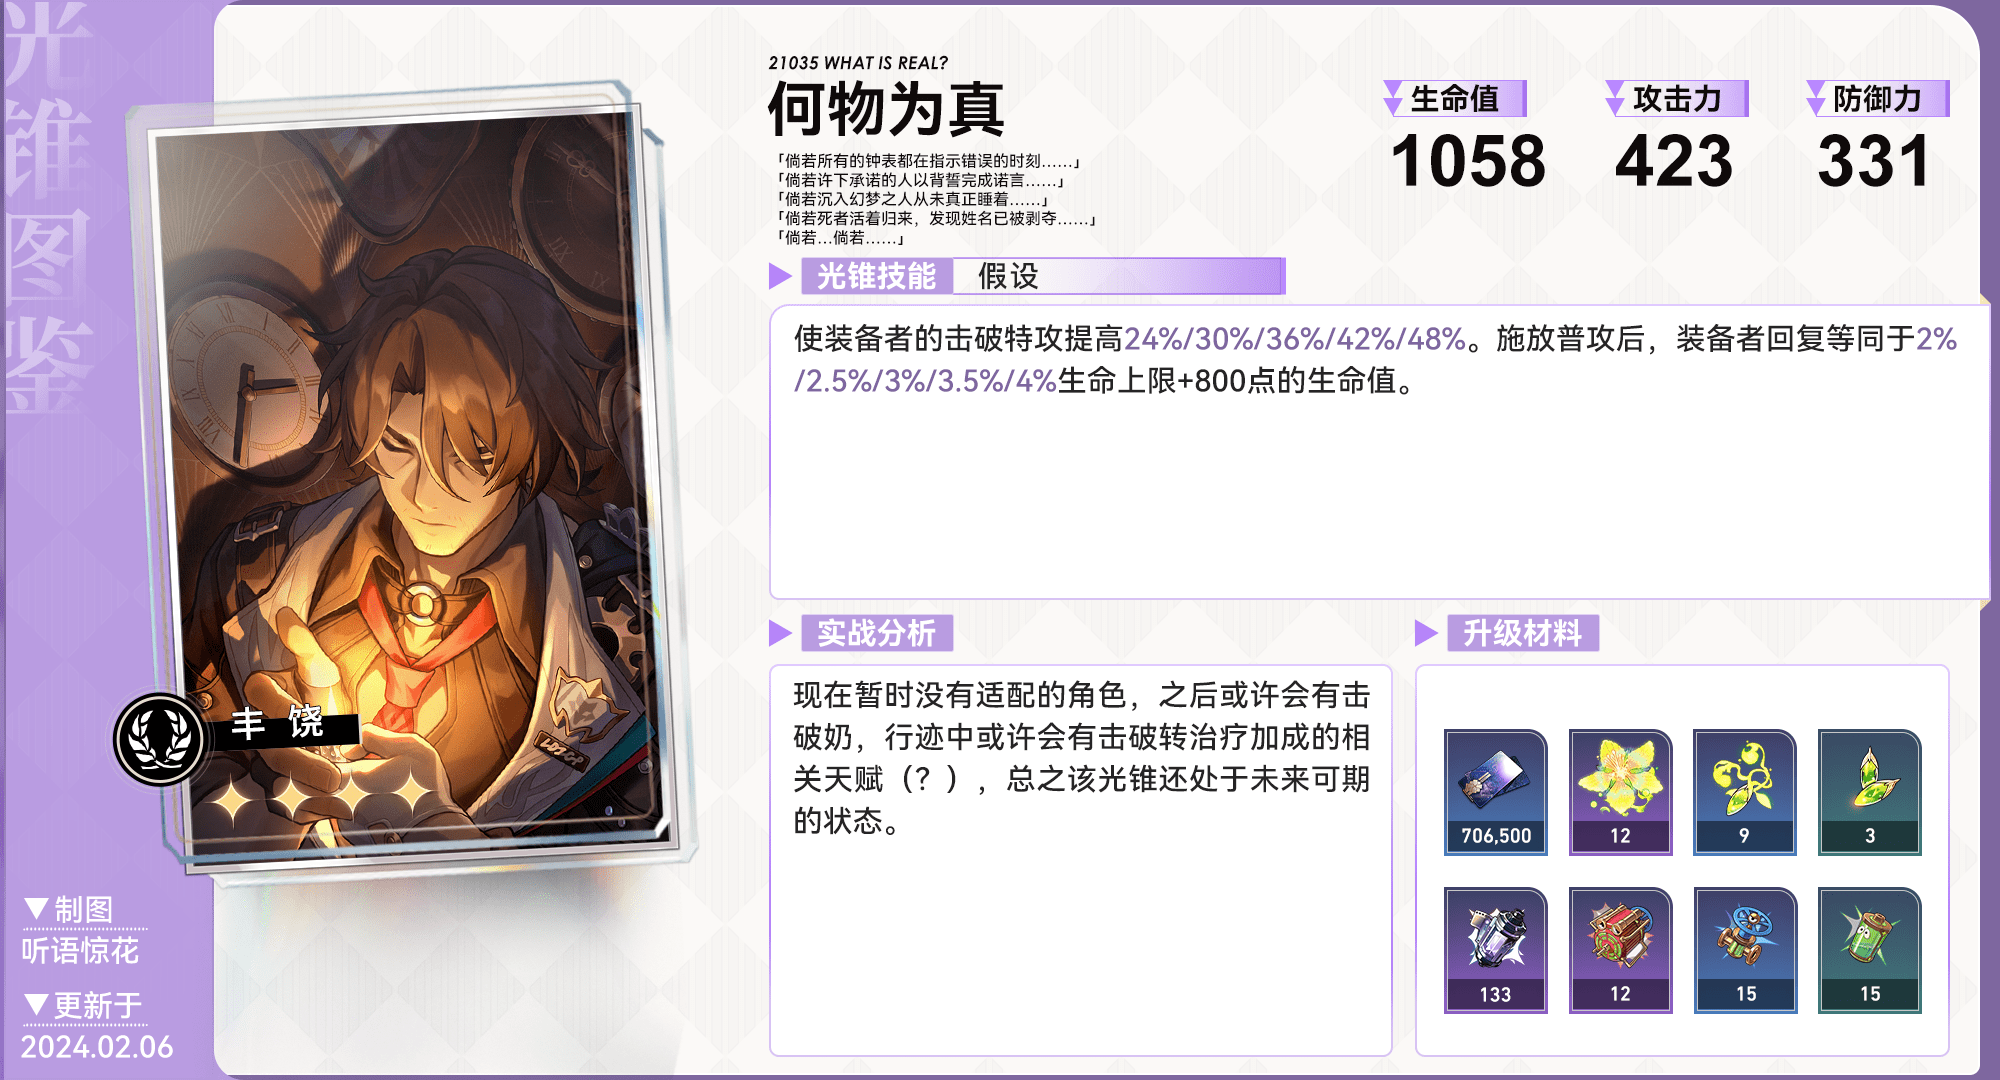
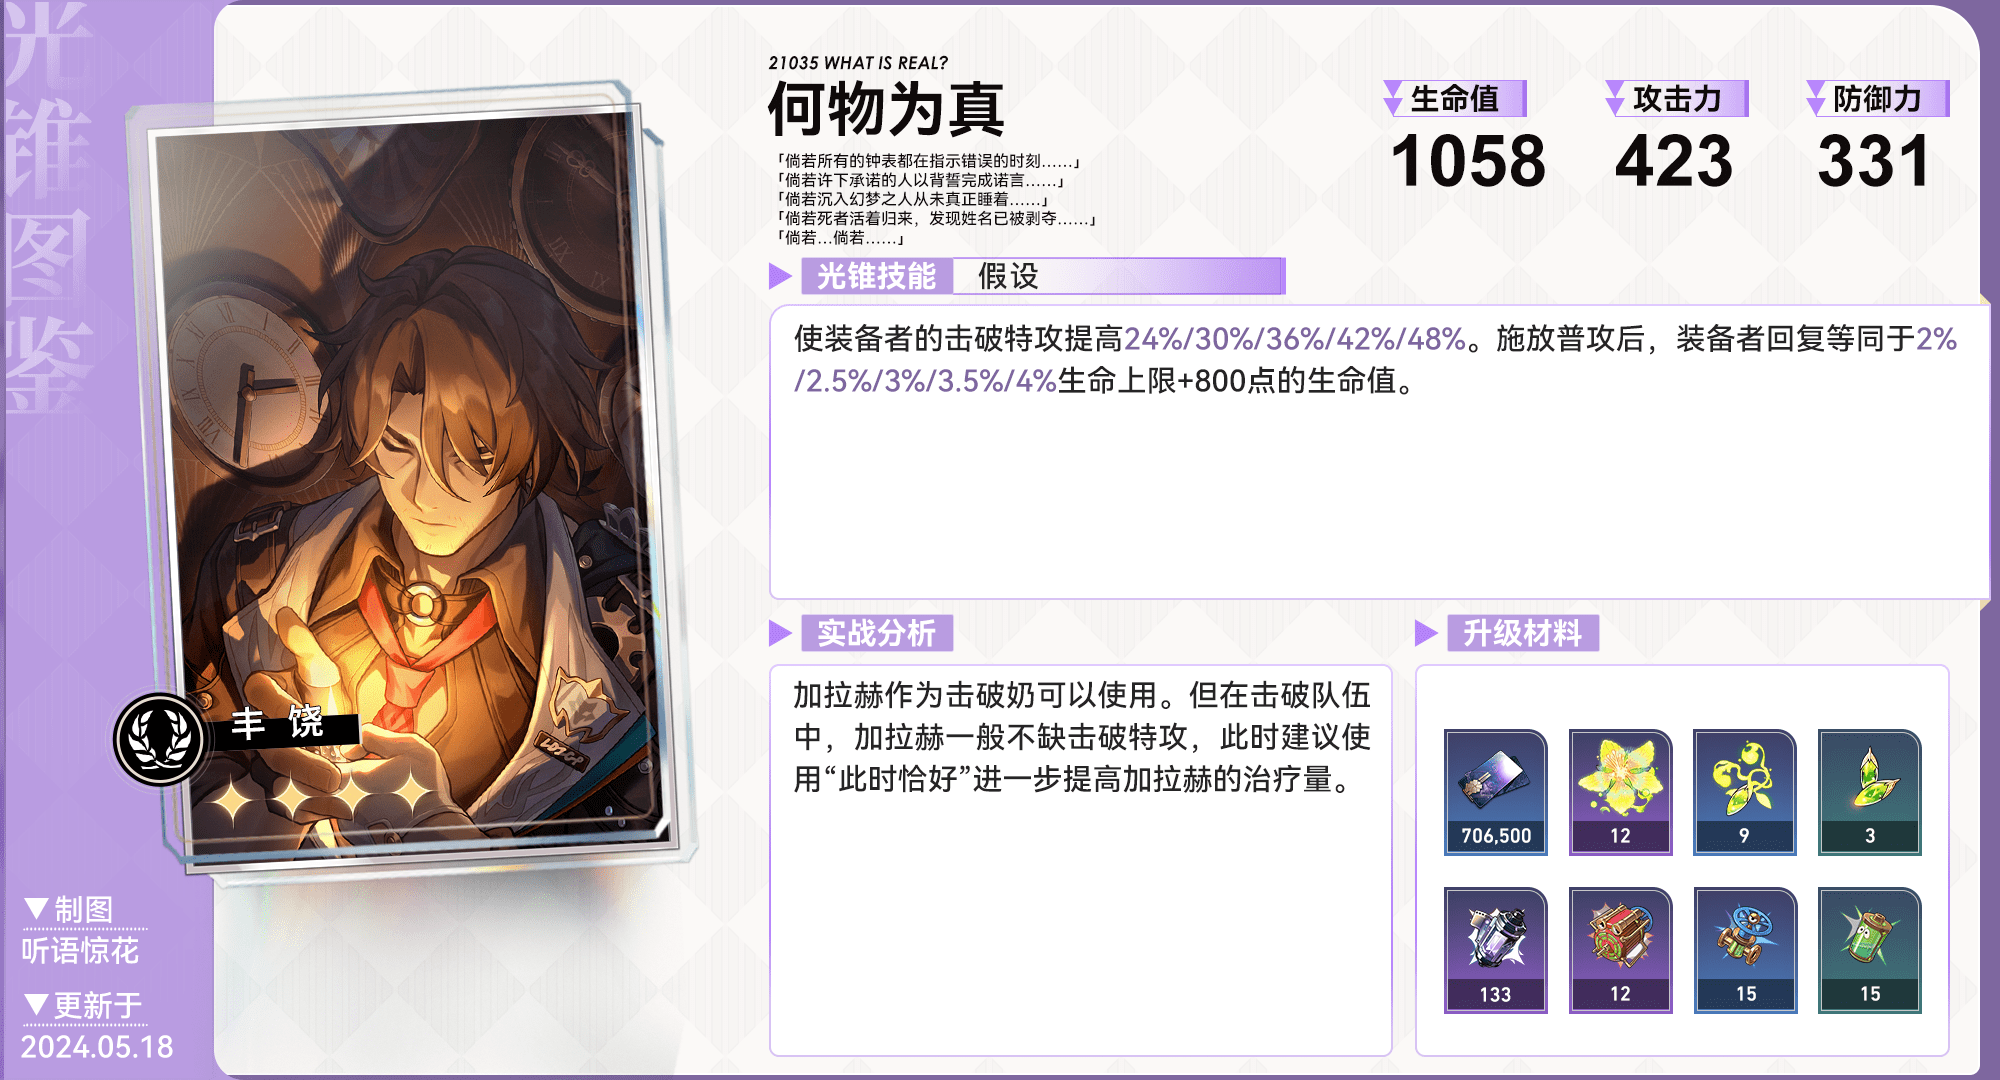
2.2

Changed region(s): [[0.372, 0.6111, 0.682, 0.7944], [0.062, 0.9472, 0.093, 0.9778]]

diff --git a/README.md b/README.md
@@ -4,11 +4,11 @@ Star-Rail-Atlas是一个主要由[`米游社@听语惊花`](https://bbs.mihoyo.c
 【注意】本仓库内不会上线在正式服与创作体验服未实装的内容。
 
 ## 目录结构
-- [x] 角色图鉴（更新至2.1）
-- [x] 角色攻略（更新至2.1）
-- [x] 光锥图鉴（更新至2.1）
-- [x] 遗器图鉴（更新至2.1）
-- [ ] 奇物图鉴、祝福图鉴（正在制作，排期中，~~很可能会鸽，不过都鸽了四个版本了再鸽一下不过分吧~~）
+- [x] 角色图鉴（更新至2.2）
+- [x] 角色攻略（更新至2.2）
+- [x] 光锥图鉴（更新至2.2）
+- [x] 遗器图鉴（更新至2.2）
+- [ ] 奇物图鉴、祝福图鉴（正在制作，排期中，~~很可能会鸽，不过都鸽了五个版本了再鸽一下不过分吧~~）
 
 注意：请使用根目录下的path.json来获取准确的完整目录。
 
